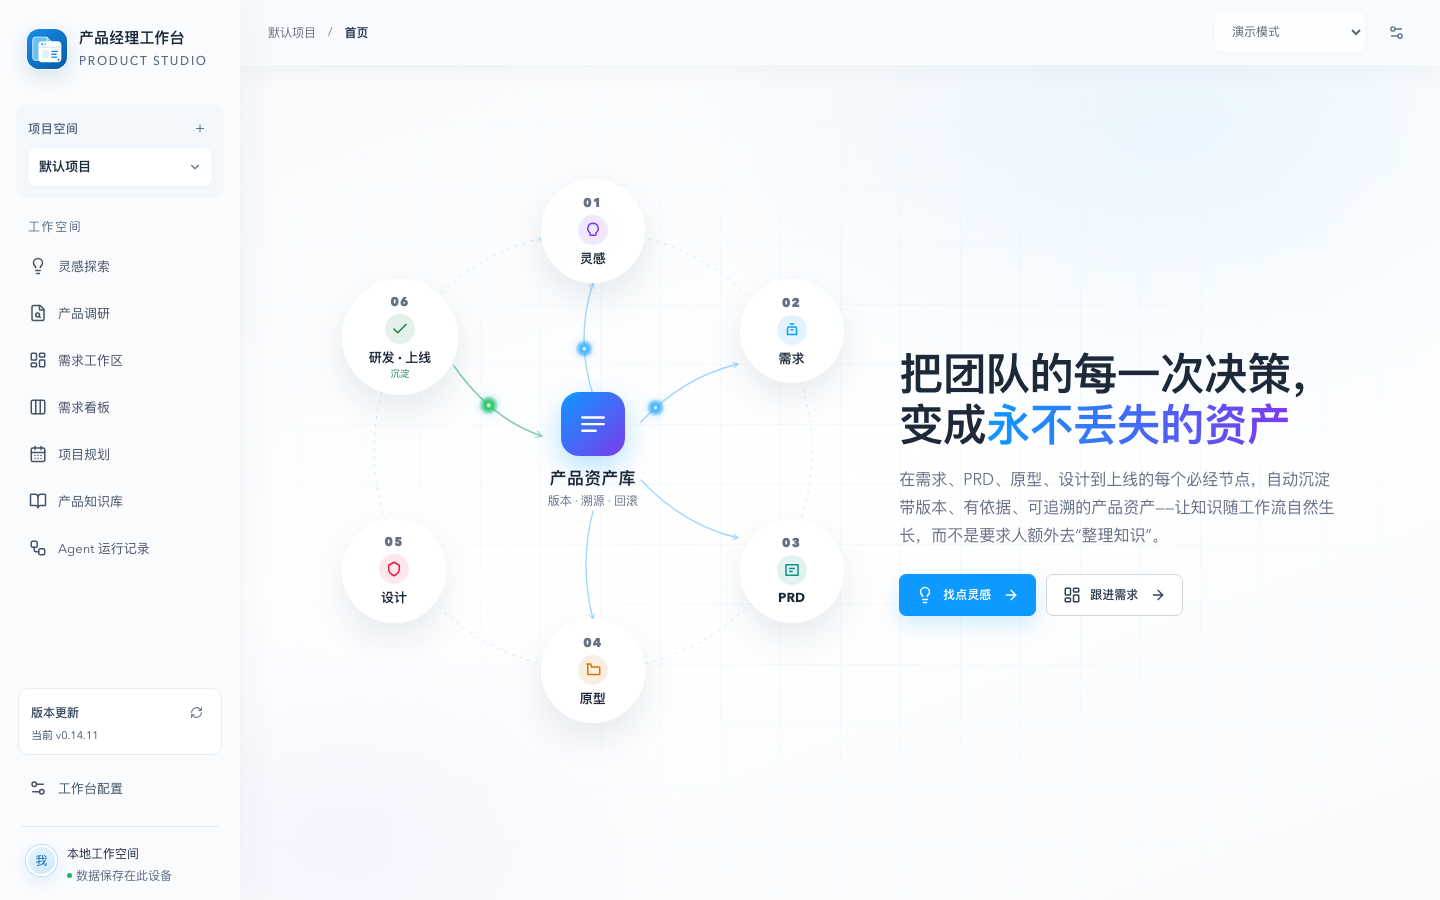
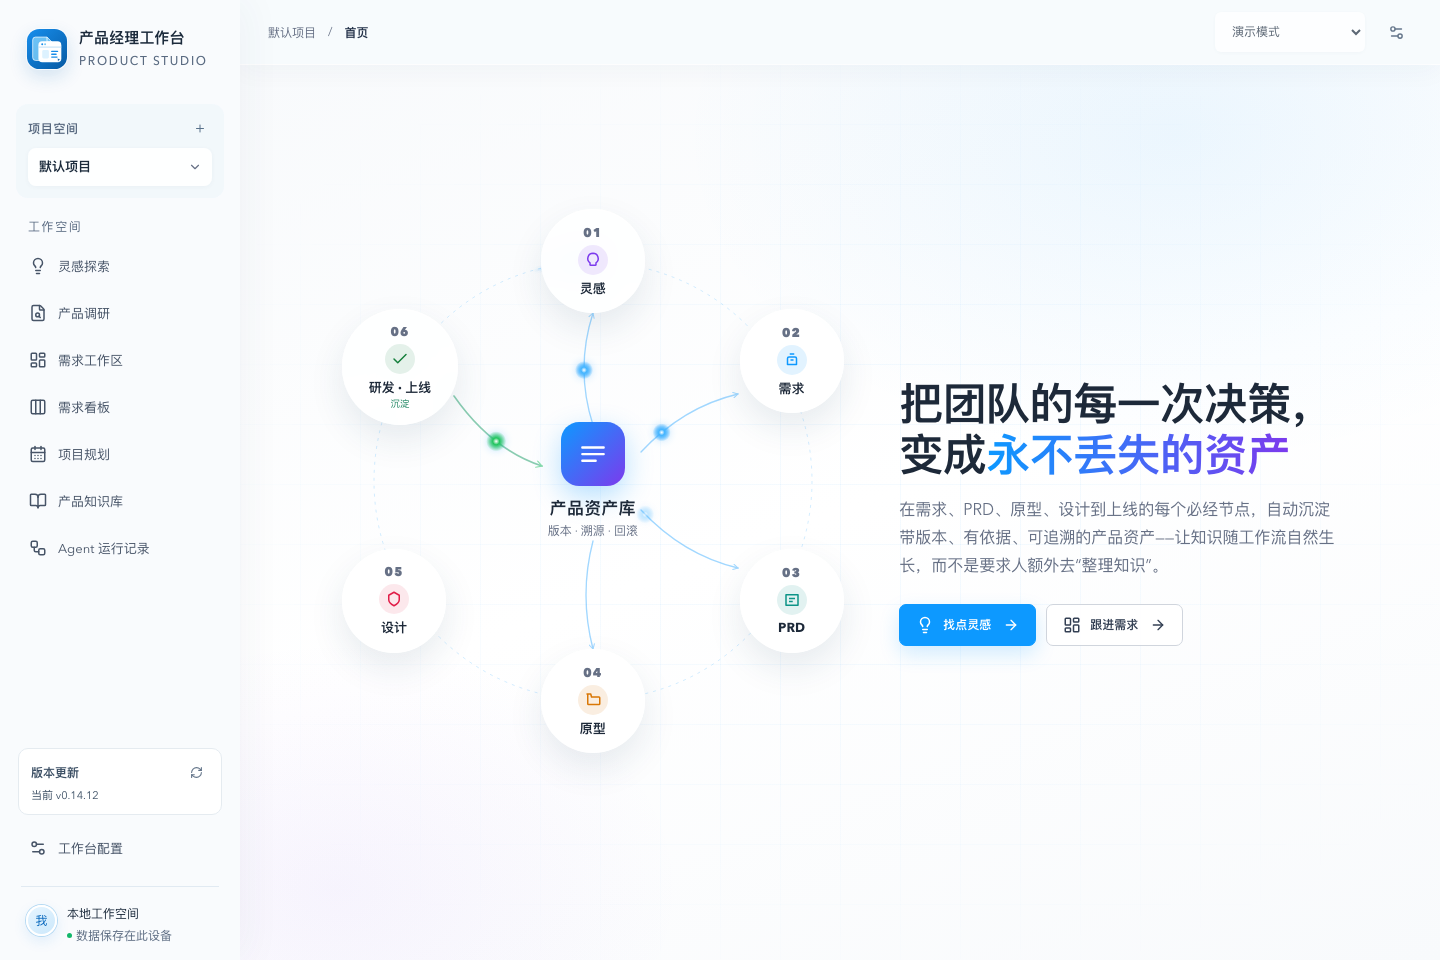
Add public installation and model configuration guide

diff --git a/README.md b/README.md
@@ -1,32 +1,63 @@
-# 产品经理 Agent 工作台
+# Product Studio · 产品经理 Agent 工作台
 
 **从灵感到上线，让每一次产品决策成为有版本、有依据、可追溯的资产。**
 
-产品经理 Agent 工作台将灵感探索、产品调研、需求、PRD、可交互原型、设计文档、项目规划与产品知识连接在一条工作流中。通过对话澄清问题、整理需求、生成并审阅产物；上线后继续沉淀知识，让后续工作有据可查。
+Product Studio 把灵感探索、产品调研、需求文档、交互原型、设计文档、项目规划与产品知识连接在一条工作流中。Agent 会追问关键问题，帮助把模糊想法整理成需求。记录上线时，Agent 结合已确认的需求文档、原型、设计文档和实际交付内容提炼知识、更新知识库；知识冲突会进入待处理队列，供产品负责人核对。
 
 ## 核心能力
 
-- **探索与调研：**围绕用户、场景和目标展开对话，结合产品知识与来源证据整理需求。
-- **需求到设计：**在同一工作区管理 PRD、HTML 原型和设计文档，支持编辑、确认、版本历史与恢复。
-- **产品资产库：**保存知识、来源、版本和上线事实，提供检索、关系图谱与冲突提醒。
-- **规划与跟进：**用需求看板、排期和 Agent 运行记录掌握产品工作进展。
+- **灵感探索：**Agent 主动追问用户、场景、目标和边界，结合产品知识与历史产物整理需求。
+- **需求到设计：**生成并审阅需求文档、可交互 HTML 原型和设计文档，保留版本与上游依据。
+- **知识回写：**记录上线时，从当前产物和实际交付中提炼新知识、更新旧口径，并写入知识库。
+- **冲突校验：**提示相互矛盾的产品知识，支持对比原文、忽略或标记已处理。
+- **规划跟进：**通过需求看板、排期和 Agent 运行记录跟进工作进展。
 
 ## 界面预览
 
-以下画面来自全新临时数据目录的离线演示模式。「客户反馈中心」是虚构示例，不包含真实项目资料。
+以下截图由当前正式版 v0.14.12 在全新临时数据目录生成。「客户反馈中心」和冲突规则均为虚构示例，不包含真实项目资料。冲突截图使用测试模型判定；实际使用时需要配置生成模型。
 
 **首页与产品资产流程**
 
-![产品经理 Agent 工作台首页及产品资产流程](screenshots/overview.png)
+![Product Studio 首页及产品资产流程](screenshots/overview.png)
 
-**需求文档工作区**
+**灵感探索中的 Agent 追问**
 
-![虚构的客户反馈中心需求和 PRD](screenshots/requirement.png)
+![Agent 追问产品问题并提供回答选项](screenshots/inspiration-followup.png)
 
-**交互原型预览与调整**
+**需求文档和交互原型**
 
-![虚构的客户反馈中心 HTML 原型预览](screenshots/prototype.png)
+![虚构的客户反馈中心需求文档](screenshots/requirement.png)
 
-## 下载
+![虚构的客户反馈中心 HTML 原型](screenshots/prototype.png)
 
-在 [Releases](https://github.com/RocLing26/pm-workstation-releases/releases) 获取正式版本和同名 SHA-256 文件。部署与升级步骤见压缩包内的 `INSTALL.md`。工作台可自行检查新版本并验证下载完整性。
+**上线时自动提炼并回写产品知识**
+
+![Agent 根据实际交付更新产品知识的摘要](screenshots/agent-knowledge-writeback.png)
+
+![产品知识库中自动沉淀的上线知识](screenshots/knowledge-updated.png)
+
+**产品知识冲突校验**
+
+![产品知识库展示两条虚构规则的口径冲突](screenshots/knowledge-conflict.png)
+
+![冲突详情并排对比两条虚构规则的原文](screenshots/knowledge-conflict-detail.png)
+
+## 安装与启动
+
+1. 安装 Node.js 22.13 或更高版本。在 [Releases](https://github.com/RocLing26/product-studio-releases/releases/latest) 下载 `product-studio-0.14.12-intranet.zip` 及同名 `.sha256` 文件，并按 [完整安装说明](INSTALL.md) 校验 SHA-256。
+2. 解压 ZIP，进入 `product-studio-0.14.12-intranet` 目录，运行 `node server/index.mjs`。包内已包含运行依赖，无需执行 `npm install`。
+3. 在本机浏览器打开 `http://127.0.0.1:4310`。默认数据保存在解压目录下的 `.data/`；正式使用建议按 [完整安装说明](INSTALL.md#数据保存与升级)设置独立的 `PM_DATA_DIR`。
+
+这是供浏览器访问的 Node.js 服务包，不是桌面安装程序。多设备内网访问需要配置 HTTPS 地址和访问口令，步骤见 [内网部署](INSTALL.md#内网-https-部署)。
+
+## 模型配置
+
+工作台默认以演示模式运行，不需要模型密钥。要使用真实模型生成、灵感探索和知识冲突判定，打开「工作台配置 → 模型与搜索」：
+
+1. 点击「添加 Provider」，填写服务名称、兼容 OpenAI API 的 `API Base URL` 和 `API Key`。Base URL 通常以 `/v1` 结尾，不要填 `/chat/completions`；远程地址须使用 HTTPS，本机模型可使用 localhost HTTP。
+2. 点击「添加模型」，填入服务提供的模型 ID，保存 Provider。
+3. 在「当前生成配置」选择该模型，点击「测试生成模型连接」。
+
+Embedding 模型用于知识冲突候选召回，可在 Provider 中填写「Embedding 模型 ID」，再选择「知识冲突检索服务」并测试连接。未配置 Embedding 时使用本地向量召回；**冲突结论仍需已配置的生成模型**。详细步骤和环境变量配置见 [完整安装说明](INSTALL.md#模型配置)。
+
+工作台可检查正式版本并校验下载完整性；下载后仍需由管理员按说明升级。

diff --git a/INSTALL.md b/INSTALL.md
@@ -1,0 +1,86 @@
+# Product Studio 安装与模型配置
+
+适用于当前正式版 v0.14.12。Product Studio 的发布包是 Node.js 服务，浏览器访问工作台；它不是桌面 EXE/MSI。ZIP 包含已构建的网页、服务端和运行依赖，不含 Node.js、用户数据和模型密钥。
+
+## 准备与校验
+
+1. 安装 Node.js 22.13 或更高版本，运行 `node --version` 确认版本。使用 ZIP 不需要 `npm install`。
+2. 从 [最新正式发布](https://github.com/RocLing26/product-studio-releases/releases/latest) 下载 `product-studio-0.14.12-intranet.zip` 和 `product-studio-0.14.12-intranet.zip.sha256`，放在同一目录。
+3. 在该目录校验文件，再解压 ZIP：
+
+```bash
+# macOS
+shasum -a 256 -c product-studio-0.14.12-intranet.zip.sha256
+
+# Linux（二选一，执行这一行即可）
+sha256sum -c product-studio-0.14.12-intranet.zip.sha256
+```
+
+Windows PowerShell 可运行 `Get-FileHash .\product-studio-0.14.12-intranet.zip -Algorithm SHA256`，将输出的哈希与 `.sha256` 文件第一列比较。校验失败时重新下载。
+
+## 本机启动
+
+解压后进入 `product-studio-0.14.12-intranet` 目录，运行：
+
+```bash
+node server/index.mjs
+```
+
+浏览器打开 `http://127.0.0.1:4310`。服务默认仅监听本机地址；按 `Ctrl+C` 停止。首次打开为演示模式，可先体验示例流程；真实模型功能按下文配置。
+
+## 数据保存与升级
+
+未设置 `PM_DATA_DIR` 时，数据保存在程序目录下的 `.data/`。长期使用建议让数据目录与程序目录分开，例如在 macOS/Linux 启动前：
+
+```bash
+export PM_DATA_DIR="$HOME/product-studio-data"
+node server/index.mjs
+```
+
+Windows PowerShell 可在启动前设置 `$env:PM_DATA_DIR = 'C:\ProductStudio\data'`。数据目录中包含工作记录和模型配置（包括 API Key），请限制访问权限并备份整个目录。
+
+升级时先停止服务，备份完整数据目录及内网部署使用的 `.env`；将新版 ZIP 解压到新的程序目录，用原来的 `PM_DATA_DIR` 和 `.env` 启动。不要覆盖正在运行的目录，也不要用旧版程序打开新版数据库。工作台可以检查、下载并校验正式更新，但不会自动替换程序。
+
+## 内网 HTTPS 部署
+
+当前是单一管理账号的个人工作台，同一人可以从多台设备访问同一服务；没有团队成员权限和 SSO。内网部署需要已获准运行 Node.js 的服务器、内网域名、TLS 证书，以及同机 HTTPS 反向代理。
+
+在解压后的程序目录运行：
+
+```bash
+node scripts/configure-intranet.mjs https://pm.company.example
+```
+
+将示例域名替换为实际访问地址。此命令生成 `.env`，其中包含随机 `PM_ACCESS_TOKEN`；不会覆盖现有 `.env`。在文件中设置独立的绝对路径，例如 `PM_DATA_DIR=/var/lib/product-studio`，保持 `PM_BIND_HOST=127.0.0.1`。然后运行：
+
+```bash
+node --env-file=.env server/index.mjs
+```
+
+由管理员将 HTTPS 域名反向代理到 `http://127.0.0.1:4310`，保留原始 Host 和 Authorization 请求头；ZIP 内有 `deploy/nginx.conf.example`。浏览器访问该 HTTPS 地址，使用账号 `pm` 和 `.env` 中的 `PM_ACCESS_TOKEN` 登录。请由管理员保管 `.env` 和访问口令。
+
+## 模型配置
+
+真实生成需要一个兼容 OpenAI API 的生成模型服务。服务器需要能够连接该服务；模型请求会发送到你配置的地址。未配置时保持演示模式，不调用外部模型。
+
+1. 在工作台打开「工作台配置 → 模型与搜索」，点击「添加 Provider」。
+2. 填写「Provider 名称」、`API Base URL`、`API Key`。Base URL 使用服务商给出的 API 根地址，通常以 `/v1` 结尾，不要填写完整的 `/chat/completions` 地址。远程模型地址必须是 HTTPS；本机模型服务可使用 localhost HTTP。
+3. 点击「添加模型」，填写准确的「模型 ID」。根据服务商限制设置输出预算等参数，点击「保存 Provider」。
+4. 在「当前生成配置」选择刚添加的模型，点击「测试生成模型连接」。成功后再试用灵感探索、PRD 或原型生成。
+
+如需配置知识检索使用的 Embedding，在 Provider 中填写「Embedding 模型 ID」；它可以与生成模型在同一 Provider，也可以使用独立 Provider。然后在「知识冲突检索服务」选择它并点击「测试 Embedding 连接」。Embedding 可选：未配置时使用本地向量召回，但知识冲突的最终判断仍需生成模型。外部产品调研还需单独配置搜索服务。
+
+管理员也可以在 `.env` 中指定生成模型，并用 `node --env-file=.env server/index.mjs` 启动：
+
+```dotenv
+PM_MODEL_MODE=compatible
+PM_MODEL_BASE_URL=https://model.example.com/v1
+PM_MODEL_NAME=your-model-id
+PM_MODEL_API_KEY=your-private-api-key
+```
+
+`PM_MODEL_*` 环境变量会覆盖界面中的当前生成配置；移除后重启即可改由界面选择。示例值需替换为实际服务信息，不要提交含密钥的 `.env`。如果连接测试失败，检查服务器到模型地址的网络、API Key、模型 ID，以及服务商要求的输出参数和流式支持。
+
+## 健康检查
+
+本机启动后打开 `http://127.0.0.1:4310/api/health`，应返回服务健康状态。内网访问出现 403 时，检查浏览器访问地址、`.env` 中的 `PM_PUBLIC_ORIGIN` 与反向代理保留的 Host 是否一致。
